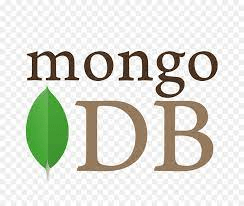
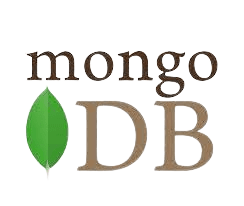
adding images of languages to portfolio

diff --git a/pages/index.js b/pages/index.js
@@ -1,7 +1,15 @@
-import Head from 'next/head'
-import {BsFillMoonStarsFill} from 'react-icons/bs'
-import {AiFillLinkedin, AiFillGithub} from 'react-icons/ai'
-import Image from 'next/image'
+import Head from "next/head";
+import { BsFillMoonStarsFill } from "react-icons/bs";
+import { AiFillLinkedin, AiFillGithub } from "react-icons/ai";
+import Image from "next/image";
+import js from "../public/js.png";
+import react from "../public/react.png";
+import django from "../public/django.png";
+import html from "../public/html.png";
+import mongo from "../public/mongo.png";
+import node from "../public/node.png";
+import python from "../public/python.png";
+
 
 export default function Home() {
   return (
@@ -12,65 +20,112 @@ export default function Home() {
         <meta name="viewport" content="width=device-width, initial-scale=1" />
         <link rel="icon" href="/favicon.ico" />
       </Head>
-      <main className='bg-white px-10 md:px-20 lg:px-40'>
-        <section className='min-h-screen'>
-          <nav className='py-10 mb-12 flex justify-between'>
-            <h1 className='text-xl font-burtons'>Developed By Ahmad</h1>
-            <ul className='flex items-center'>
+      <main className="bg-white px-10 md:px-20 lg:px-40">
+        <section className="min-h-screen">
+          <nav className="py-10 mb-12 flex justify-between">
+            <h1 className="text-xl font-burtons">Developed By Ahmad</h1>
+            <ul className="flex items-center">
               <li>
-                <BsFillMoonStarsFill className='cursor-pointer text-xl'/>
+                <BsFillMoonStarsFill className="cursor-pointer text-xl" />
               </li>
-              <li><a className='bg-gradient-to-r from-cyan-500 to-teal-500 text-white px-4 py-2 rounded-md ml-8' href='#'>Resume</a></li>
+              <li>
+                <a
+                  className="bg-gradient-to-r from-cyan-500 to-teal-500 text-white px-4 py-2 rounded-md ml-8"
+                  href="#"
+                >
+                  Resume
+                </a>
+              </li>
             </ul>
           </nav>
-          <div className='text-center p-10'>
-            <h2 className='text-5xl py-2 text-teal-600 font-medium md:text-6xl'>Ahmad Mahmoud</h2>
-            <h3 className='text-2xl py-2 md:text-3xl'>Full-Stack Developer</h3>
-            <p className='text-md py-5 leading-8 text-gray-800 md:text-xl max-w-xl mx-auto'>Amiable and dedicated software engineer with a background in Team Management and leadership. A punctual, organized and enthusiastic team player that isn’t afraid of a challenge and can help lead a group to success. Persistence keeps me curious and passionate about continually pursuing a better tomorrow. </p>
+          <div className="text-center p-10">
+            <h2 className="text-5xl py-2 text-teal-600 font-medium md:text-6xl">
+              Ahmad Mahmoud
+            </h2>
+            <h3 className="text-2xl py-2 md:text-3xl">Full-Stack Developer</h3>
+            <p className="text-md py-5 leading-8 text-gray-800 md:text-xl max-w-xl mx-auto">
+              Amiable and dedicated software engineer with a background in Team
+              Management and leadership. A punctual, organized and enthusiastic
+              team player that isn’t afraid of a challenge and can help lead a
+              group to success. Persistence keeps me curious and passionate
+              about continually pursuing a better tomorrow.{" "}
+            </p>
+          
+          <div className="text-5xl flex justify-center gap-16 py-3 text-gray-600">
+            <a href="https://github.com/ahmalla" target={"_blank"}>
+              <AiFillGithub />
+            </a>
+            <a
+              href="https://www.linkedin.com/in/ahmad-mahmoud-dev/"
+              target={"_blank"}
+            >
+              <AiFillLinkedin />
+            </a>
           </div>
-          <div className='text-5xl flex justify-center gap-16 py-3 text-gray-600'>
-            <a href='https://github.com/ahmalla' target={'_blank'}><AiFillGithub /></a>
-            <a href='https://www.linkedin.com/in/ahmad-mahmoud-dev/' target={'_blank'}><AiFillLinkedin /></a>
+          <div className="flex align-items">
+            <Image src={js} />
+            <Image src={react} />
+            <Image src={html} />
+            <Image src={node} />
+            <Image src={mongo} />
+            <Image src={python} />
+            <Image src={django} />
           </div>
-          </section>
+          </div>
+        </section>
         <section>
-        <div className='text-center shadow-lg p-10 rounded-xl my-10'>
-          <div>
-            <h3 className='text-3xl py-1'>Projects I have created</h3>
-            <p className='text-md py-2 leading-8 text-gray-800'>Write something about development journey here.</p>
-          </div>
+          <div className="text-center shadow-lg p-10 rounded-xl my-10">
             <div>
-              <h3 className='text-3xl py-1'>Languages I am Familiar with</h3>
-              <p className='text-md py-5 leading-8 text-gray-800'> React, Express, MERN stack, Node.js</p>
+              <h3 className="text-3xl py-1">Projects I have created</h3>
+              <p className="text-md py-2 leading-8 text-gray-800">
+                Write something about development journey here.
+              </p>
+            </div>
+            <div>
+              <h3 className="text-3xl py-1">Languages I am Familiar with</h3>
+              <p className="text-md py-5 leading-8 text-gray-800">
+                {" "}
+                React, Express, MERN stack, Node.js
+              </p>
             </div>
           </div>
-          <div className='text-center shadow-lg p-10 rounded-xl my-10'>
-          <div>
-            <h3 className='text-3xl py-1'>Projects I have created</h3>
-            <p className='text-md py-2 leading-8 text-gray-800'>Write something about development journey here.</p>
-          </div>
+          <div className="text-center shadow-lg p-10 rounded-xl my-10">
             <div>
-              <h3 className='text-3xl py-1'>Languages I am Familiar with</h3>
-              <p className='text-md py-5 leading-8 text-gray-800'> React, Express, MERN stack, Node.js</p>
+              <h3 className="text-3xl py-1">Projects I have created</h3>
+              <p className="text-md py-2 leading-8 text-gray-800">
+                Write something about development journey here.
+              </p>
+            </div>
+            <div>
+              <h3 className="text-3xl py-1">Languages I am Familiar with</h3>
+              <p className="text-md py-5 leading-8 text-gray-800">
+                {" "}
+                React, Express, MERN stack, Node.js
+              </p>
             </div>
           </div>
-          <div className='text-center shadow-lg p-10 rounded-xl my-10'>
-          <div>
-            <h3 className='text-3xl py-1'>Projects I have created</h3>
-            <p className='text-md py-2 leading-8 text-gray-800'>Write something about development journey here.</p>
-          </div>
+          <div className="text-center shadow-lg p-10 rounded-xl my-10">
             <div>
-              <h3 className='text-3xl py-1'>Languages I am Familiar with</h3>
-              <p className='text-md py-5 leading-8 text-gray-800'> React, Express, MERN stack, Node.js</p>
+              <h3 className="text-3xl py-1">Projects I have created</h3>
+              <p className="text-md py-2 leading-8 text-gray-800">
+                Write something about development journey here.
+              </p>
+            </div>
+            <div>
+              <h3 className="text-3xl py-1">Languages I am Familiar with</h3>
+              <p className="text-md py-5 leading-8 text-gray-800">
+                {" "}
+                React, Express, MERN stack, Node.js
+              </p>
             </div>
           </div>
         </section>
         <section>
           <div>
-            <h3 className='text-3xl py-1'>a new section, may delete later</h3>
+            <h3 className="text-3xl py-1">a new section, may delete later</h3>
           </div>
         </section>
       </main>
     </>
-  )
+  );
 }
